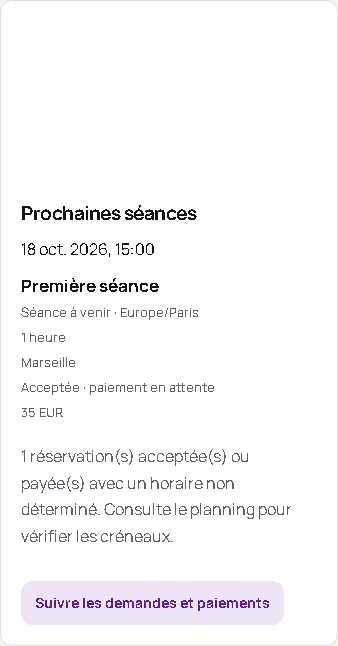
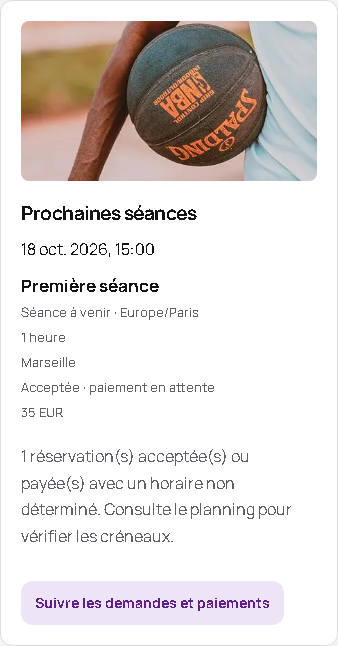
test(coach): wait for session image before visual capture

Changed region(s): [[0.0592, 0.031, 0.9467, 0.2786]]

diff --git a/gym-next/tests/coach-next-session.spec.ts b/gym-next/tests/coach-next-session.spec.ts
@@ -23,7 +23,7 @@ test("carte : vraie prochaine séance, clavier, quatre largeurs et états distin
  const records=[row("Passée","2026-10-17T12:00:00Z"),row("Plus tard","2026-10-20T12:00:00Z"),row("Annulée","2026-10-18T12:10:00Z",{status:"cancelled"}),row("Première séance","2026-10-18T13:00:00Z"),row("Horaire incertain","invalid")];
  await page.route("**/api/reservations",route=>mode==="error"?route.abort():route.fulfill({json:{data:mode==="empty"?[]:records}}));
  await login(page);const card=page.locator('[data-coach-display-block="next-session"]');await expect(card).toContainText("Première séance");await expect(card).toContainText("Acceptée · paiement en attente");await expect(card).toContainText("horaire non déterminé");await expect(card).not.toContainText("Plus tard");await expect(card).toContainText(formatBookingSlot("2026-10-18T13:00:00Z"));
- for(const width of [320,390,768,1440]){await page.setViewportSize({width,height:1000});expect(await page.evaluate(()=>document.documentElement.scrollWidth<=document.documentElement.clientWidth)).toBe(true);if(width===1440)expect((await card.locator("time").boundingBox())!.height).toBeLessThan(50);if(info.project.name==="desktop-chromium"&&[390,1440].includes(width)){await card.scrollIntoViewIfNeeded();await card.screenshot({path:`../docs/assets/coach-next-2026-10-18/carte-${width}.png`});}}
+ for(const width of [320,390,768,1440]){await page.setViewportSize({width,height:1000});expect(await page.evaluate(()=>document.documentElement.scrollWidth<=document.documentElement.clientWidth)).toBe(true);if(width===1440)expect((await card.locator("time").boundingBox())!.height).toBeLessThan(50);if(info.project.name==="desktop-chromium"&&[390,1440].includes(width)){await card.scrollIntoViewIfNeeded();await card.locator("img").evaluate(async image=>{await (image as HTMLImageElement).decode();});await card.screenshot({path:`../docs/assets/coach-next-2026-10-18/carte-${width}.png`});}}
  const link=card.getByRole("link",{name:"Suivre les demandes et paiements"});await link.focus();await expect(link).toBeFocused();await page.keyboard.press("Enter");await expect(page).toHaveURL(/#coach-requests$/);
  await page.clock.fastForward(61*60*1000);await expect(card).toContainText("Séance en cours");await page.clock.fastForward(60*60*1000);await expect(card).toContainText("Plus tard");
  mode="empty";await page.reload();await expect(card).toContainText("Aucune séance datée à venir ou en cours.");mode="error";await page.reload();await expect(card.getByRole("alert")).toContainText("Planning indisponible");await expect(card.locator("[data-coach-next-empty]")).toHaveCount(0);

diff --git a/docs/PROCHAINE_SEANCE_COACH_2026-10-18.md b/docs/PROCHAINE_SEANCE_COACH_2026-10-18.md
@@ -25,3 +25,5 @@ Modifications locales préexistantes exclues ; commit ciblé et push sur branche
 Prochaine action bornée : fiabiliser séparément les états de chargement/erreur du planning collectif existant StructureSessions, où une erreur de lecture peut encore coexister avec « Aucune séance publiée ». Examiner d'abord les tests et contrats de ce composant, sans refondre le compte structure ni changer la publication ou les droits. V1/V2/V3 restent incomplets.
 
 R?sultat final : build et typage PASS, contr?les configuration et secrets client PASS, pr?-push CONFORME. Suite corrig?e prochaine s?ance : 8/8 PASS ; r?gressions inchang?es avis/suivi/filtre mensuel : 22/22 d?j? PASS. Soit 30 cas projet distincts couverts, sans compter les replays comme couverture additionnelle. Captures desktop/mobile finales relues.
+
+Complément de preuve : la capture mobile initiale du rejeu était prise avant chargement de la photo ; attente explicite image.decode ajoutée au test, deux cas UI rejoués PASS et captures archivées avec photo chargée. Aucun changement applicatif ; couverture distincte inchangée.
